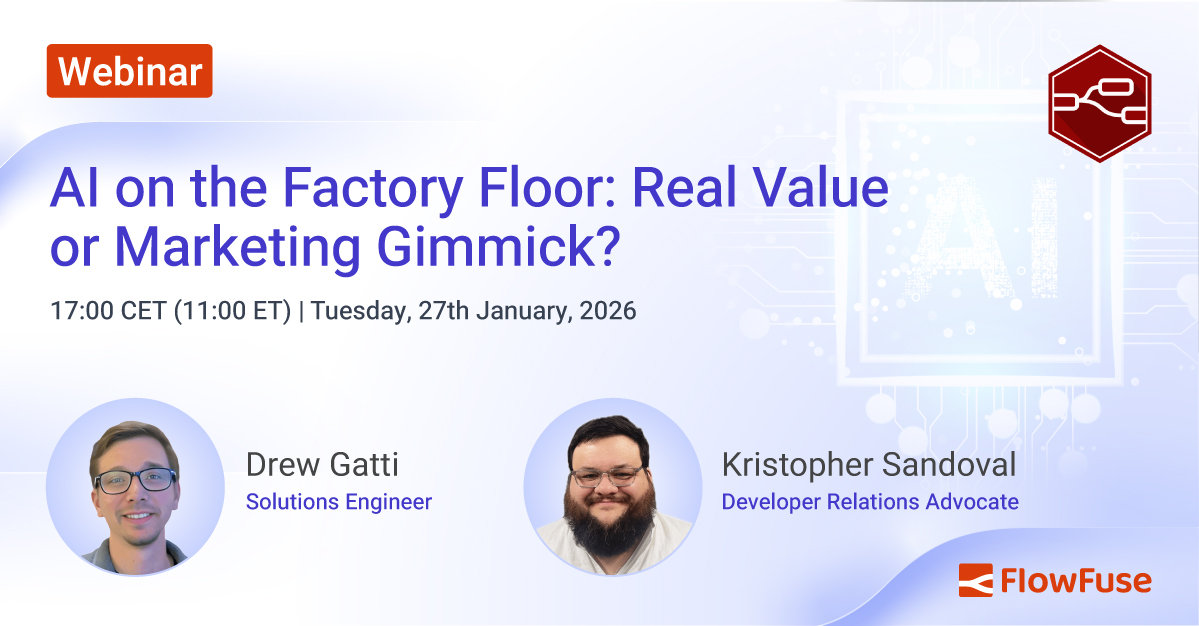
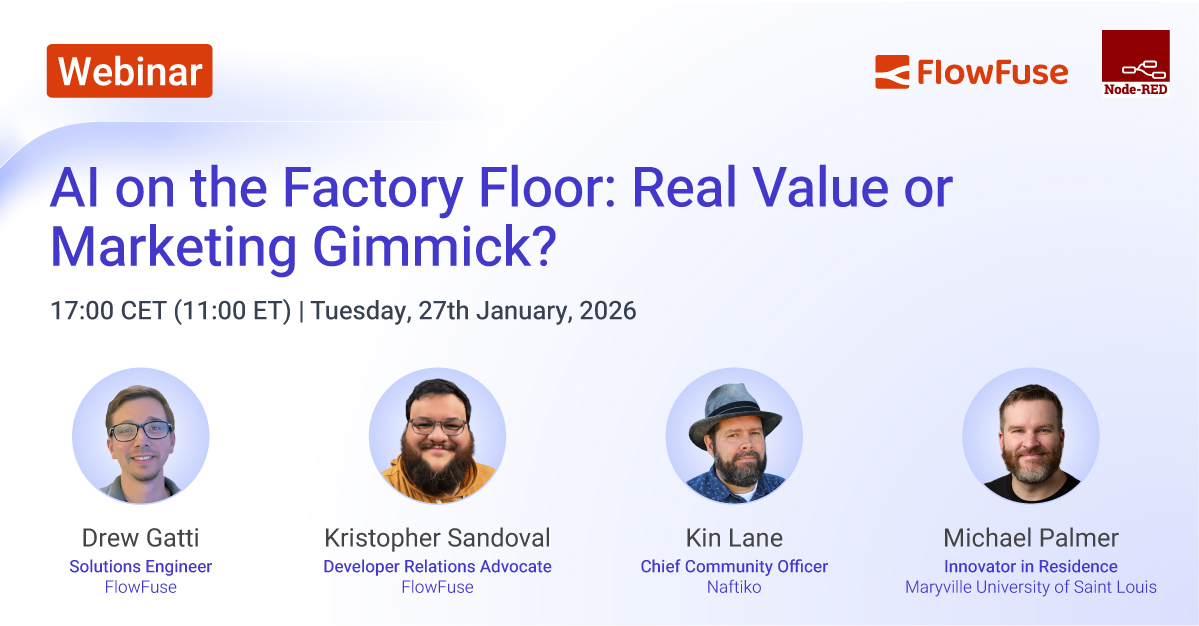
Update speakers and abstract

diff --git a/src/webinars/2026/ai-on-the-factory-floor.md b/src/webinars/2026/ai-on-the-factory-floor.md
@@ -1,37 +1,30 @@
 ---
 title: "AI on the Factory Floor: Real Value or Marketing Gimmick?"
-subtitle: 
+subtitle: A roundtable discussion on the reality of AI in the industrial space.
 meta:
-    description: 
+    description: A roundtable discussion featuring four experts - Drew Gatti, Kristopher Sandoval, Kin Lane, Michael Palmer - on AI implementation and architecture.
 image: /images/webinars/ai-on-the-factory-floor.jpg
 date: 2026-01-27
 time: 17:00 CET (11:00am ET)
 duration: 60
 video: 
-hosts: ["drew-gatti", "kristopher-sandoval"]
+hosts: ["drew-gatti", "kristopher-sandoval", "kin-lane", "michael-palmer"]
 hubspot:
     formId: 3de0fc9a-8ed0-4c27-94da-0fff6c3d79ec
     downloadFormId: 
 ---
-As AI rapidly enters industrial platforms, teams are left asking an uncomfortable question: is this solving real problems, or just adding complexity?
+As AI rapidly enters industrial platforms, teams are left asking an uncomfortable question: is Artificial Intelligence solving real problems, or just adding complexity? 
 
 <!--more-->
 
-This webinar takes a critical look at how AI is being applied across manufacturing, energy, and industrial IoT systems. We will discuss where AI meaningfully augments human expertise, where traditional rules, statistics, or automation still win, and how data quality, context, and domain knowledge determine success or failure. Rather than selling a silver bullet, this talk focuses on practical decision-making so industrial teams can invest in AI with confidence and avoid solutions that look impressive but fail in production.
+This roundtable webinar takes a critical look at how AI is currently being marketed, how it’s actually being applied across manufacturing, energy, and IoT systems, and how the API landscape is evolving to support it.
 
-Over the past few years, artificial intelligence has rapidly made its way into industrial platforms, automation software, and operational workflows. From predictive maintenance and anomaly detection to AI copilots and natural language interfaces, vendors are racing to position AI as the next essential layer of Industry 4.0. 
+This discussion will focus on practical design and architectural decisions that industrial teams can make to invest in AI with confidence - avoiding solutions that look impressive but fail in production.
 
-At the same time, many industrial teams are questioning whether these capabilities are delivering real operational value or simply adding cost, complexity, and risk to already fragile systems. 
+As artificial intelligence rapidly enters industrial platforms, engineering and operations teams are facing a critical question: is AI genuinely solving real-world industrial problems, or simply introducing new layers of complexity? With AI increasingly positioned as a default feature rather than a carefully considered capability, many organizations are struggling to separate meaningful innovation from marketing-driven hype.
 
-In this webinar session, we’ll take a clear-eyed look at AI in industrial environments and ask a simple but critical question: where does AI actually help, and where is it being forced into processes that do not need it? We’ll examine how AI is being applied across manufacturing, industrial IoT, and OT systems, what successful deployments have in common, and why many initiatives fail to move beyond demos and pilots. We’ll also look at why AI has so much push-back in the industrial space - and how to bridge the gap between AI as interesting gimmick and AI as human augmentation superpower.
- 
-## What’s covered in this session
+This roundtable webinar takes a grounded look at how AI is being promoted versus how it is actually deployed across manufacturing, energy, and industrial IoT environments. Join our panel of speakers as we dive into this complex problem.
 
-Our panel of experts will demo implementations of AI in industrial flows and look at:
+This discussion explores how the supporting API and integration landscape is evolving, what architectural patterns are emerging, and where common implementation gaps continue to surface.
 
-- Examples where AI works well, such as MCP-augmented discovery and problem solving
-- Systems in which AI integration would be a huge negative
-- The current state of AI marketing and the hype cycle surrounding it
-
-
-Whether you are actively deploying AI, considering it for the first time, or skeptical of the promises being made, join us for an honest conversation focused on outcomes, not marketing. Let’s separate real industrial intelligence from expensive buzzwords and talk about what actually works.
+Focusing on practical design and decision-making, the panel will examine how industrial teams can invest in AI with confidence by prioritizing reliability, interoperability, and long-term maintainability. Attendees will gain insight into how to identify solutions that deliver measurable value in production environments, while avoiding systems that appear impressive in demos but break down under real operational demands.
